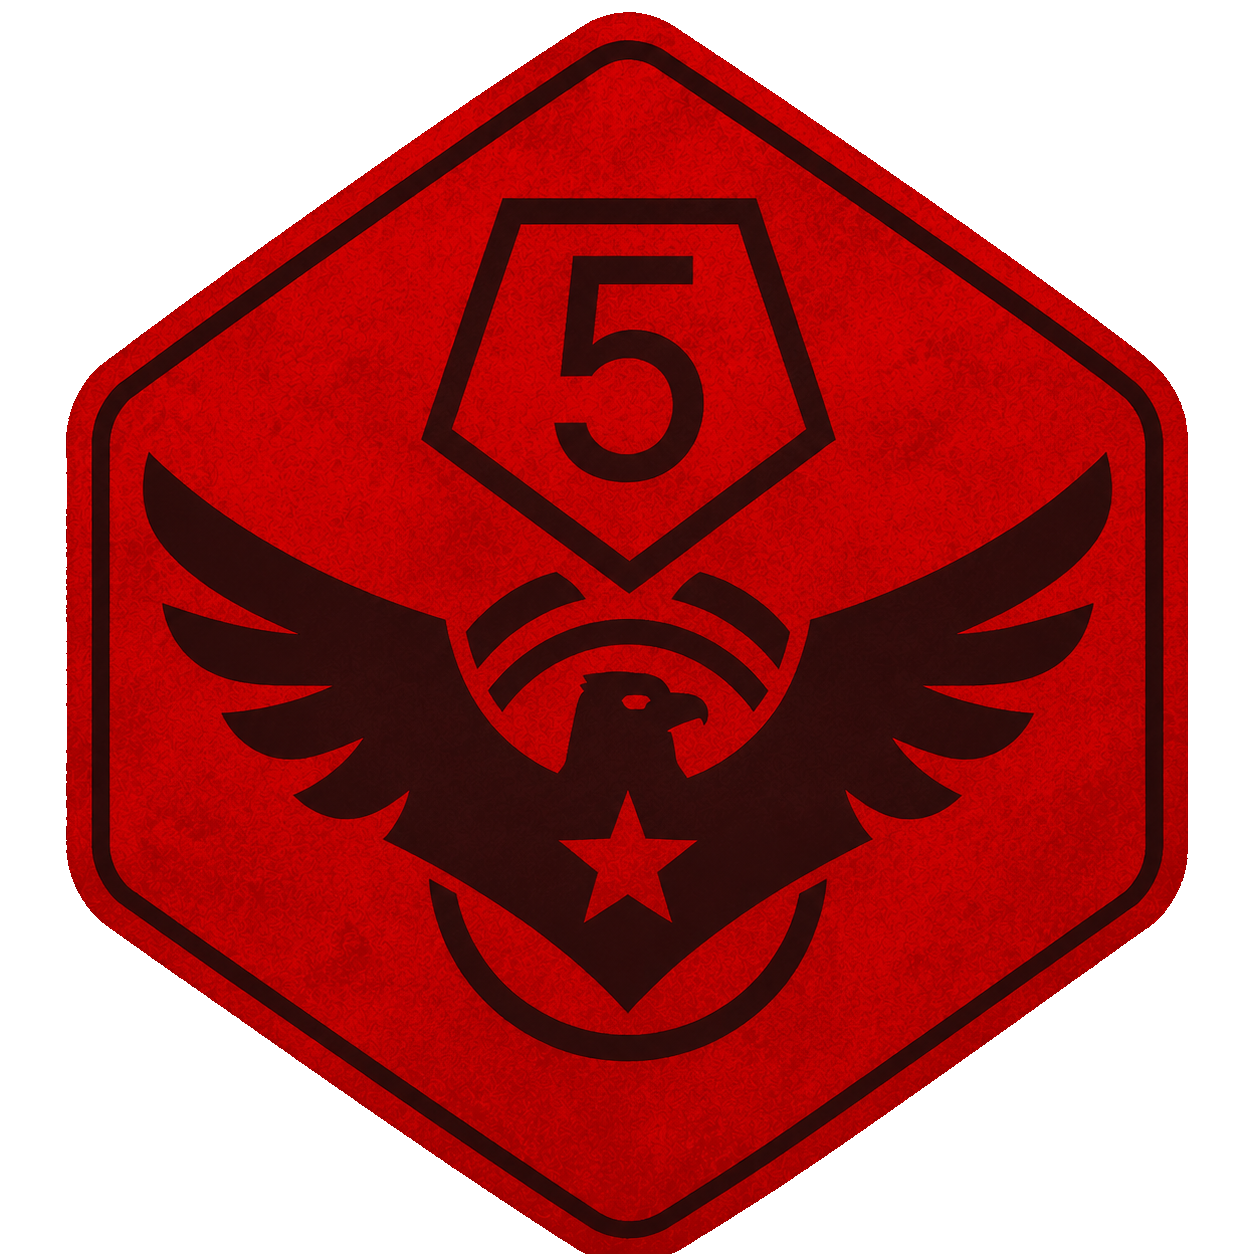
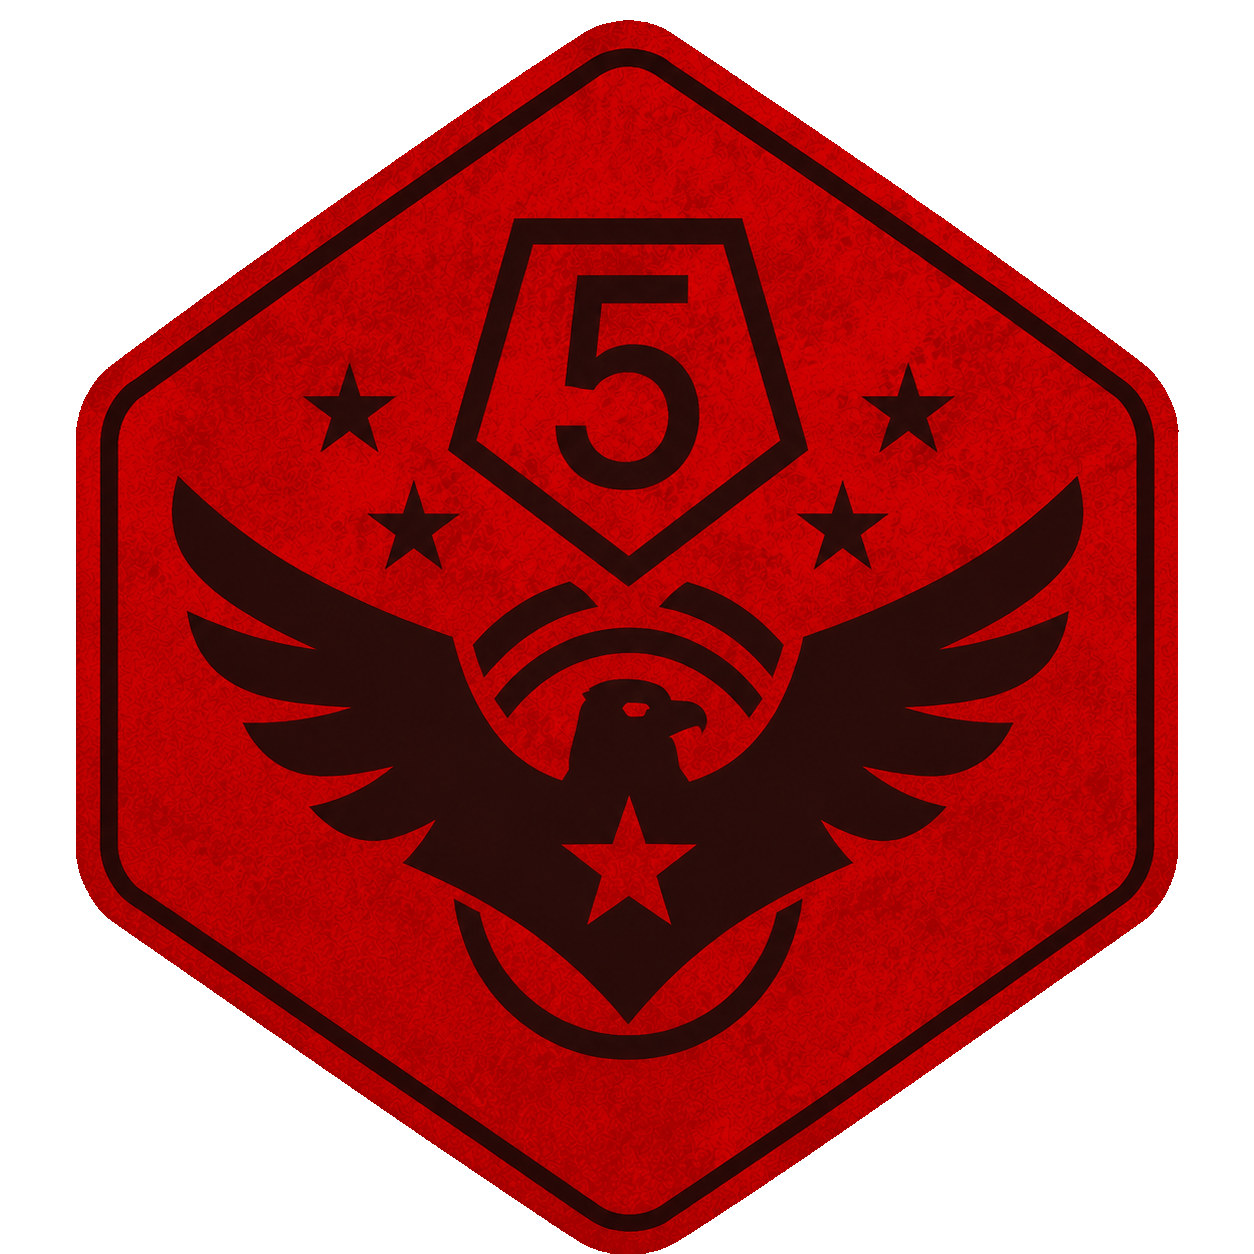
Add new levels

Changed region(s): [[0.0311, 0.0, 0.9641, 1.0], [0.4354, 0.6531, 0.5598, 0.7464], [0.4354, 0.7464, 0.4665, 0.7775]]

diff --git a/script.js b/script.js
@@ -190,6 +190,7 @@ const разделы = {
           section("Входы", [
             "Уровень 2 является одним из немногих уровней Закулисья, на который можно попасть напрямую из реальности.",
             "На уровень можно попасть, проведя достаточно длительное время на Уровне 1.",
+            "Сюда иногда можно попасть через дверь в кабинет Химии на уровне 13.",
             "Также попасть сюда можно через Хаб."
           ]),
           section("Выходы", [
@@ -258,7 +259,8 @@ const разделы = {
             "Открытые двери на Уровне 2 обычно ведут сюда.",
             "Лифты на Уровнях 4 и 5 могут привести обратно на Уровень 3.",
             "Входы в бункеры на Уровне 10 иногда ведут сюда.",
-            "Некоторые здания на Уровне 11, внешне напоминающие Уровень 3, телепортируют странников на этот уровень."
+            "Некоторые здания на Уровне 11, внешне напоминающие Уровень 3, телепортируют странников на этот уровень.",
+            "Сюда иногда можно попасть через дверь в кабинет Химии на уровне 13."
           ]),
           section("Выходы", [
             "Лифты на Уровне 3 могут привести на Уровень 4."
@@ -592,7 +594,7 @@ const разделы = {
       {
         id: "level-9",
         number: "Уровень 9",
-        name: "Пригород",
+        name: "Ночной пригород",
         danger: "hostile",
         grade: "5",
         state: "Небезопасен; нестабилен; много сущностей",
@@ -689,6 +691,111 @@ const разделы = {
             "Дома на уровне могут привести на Уровень 5.",
             "Возможно возвращение на Уровень 9.",
             "Длительное следование по грунтовой дороге может привести на Уровень 11."
+          ])
+        ]
+      },
+      {
+        id: "level-11",
+        number: "Уровень 11",
+        name: "Бесконечный город",
+        danger: "safe",
+        grade: "1",
+        state: "Безопасен; стабилен; мало сущностей",
+        statuses: ["Безопасен", "Стабилен", "Мало сущностей"],
+        summary:
+          "Бесконечный городской ландшафт с жилыми домами, магазинами, офисными зданиями, небоскребами и аномальной геометрией.",
+        tags: ["город", "здания", "улицы"],
+        images: [
+          {
+            src: "assets/Level 11-1.png",
+            alt: "Пустая городская улица Уровня 11",
+            caption: "Городская улица с различными зданиями и тротуарами"
+          },
+          {
+            src: "assets/Level 11-2.png",
+            alt: "Высотные жилые здания Уровня 11",
+            caption: "Жилой район бесконечного городского ландшафта"
+          }
+        ],
+        sections: [
+          section("Описание", [
+            "Уровень 11 представляет собой бесконечный городской ландшафт, состоящий из жилых домов, магазинов, офисных зданий и небоскребов.",
+            "На уровне встречается множество зданий, напоминающих постройки из обычного мира. Они отличаются архитектурой, размерами и внутренним устройством. Некоторые здания полностью пусты, другие содержат мебель, припасы и различные предметы.",
+            "Внутренние помещения часто обладают аномальной геометрией. Нередки лестницы, ведущие в никуда, двери, расположенные на стенах, и другие пространственные аномалии.",
+            "В заброшенных магазинах, кафе и общественных зданиях можно найти полезные ресурсы.",
+            "Гравитация на уровне работает нестандартно. Некоторые здания стоят друг на друге, удерживаются на поверхности воды или частично проходят сквозь соседние сооружения, что невозможно с точки зрения обычной физики."
+          ]),
+          section("Улицы и транспорт", [
+            "Тротуары обычно безопасны, однако иногда могут внезапно заканчиваться тупиками или проходить сквозь здания. Некоторые пешеходные дорожки поднимаются вверх под углом, напоминая длинные рампы.",
+            "В отличие от Уровня 9, дороги здесь всегда сухие и теплые. На них присутствует стандартная дорожная разметка.",
+            "Уличные фонари работают выборочно: часть из них постоянно включена, остальные остаются выключенными.",
+            "На уровне отсутствует смена времени суток - здесь всегда день. Несмотря на это, некоторые другие уровни позволяют наблюдать ночную версию Уровня 11.",
+            "Иногда по улицам самостоятельно движутся автомобили неизвестного происхождения. Со временем они останавливаются. Транспортные средства не функционируют и не могут использоваться по назначению.",
+            "Большинство автомобилей пустует, однако сообщалось о случаях обнаружения внутри Безликих - как одиночных особей, так и групп численностью до 4 сущностей."
+          ]),
+          section("Ресурсы и опасные зоны", [
+            "Миндальная вода встречается часто. Ее можно обнаружить в фонтанах, холодильниках, торговых автоматах и других местах.",
+            "По всему уровню расположены атомные электростанции, находящиеся примерно в 800 км друг от друга. Исследования показали, что они не работают, однако продолжают излучать опасные уровни радиации. Приближаться к ним не рекомендуется.",
+            "На уровне также встречаются копии известных достопримечательностей из различных городов мира. Все они обладают теми же аномальными свойствами, что и остальные сооружения Уровня 11.",
+            "На уровне стабильно работает Wi-Fi. Названия сетей выглядят случайным набором символов и не имеют заметной закономерности."
+          ]),
+          section("Сущности", [
+            "На уровне могут встречаться Безликие, Гончие, Улыбающиеся, Искореженные, Аргоса, Соседский Дозор, Смертомоли и Крадущиеся.",
+            "Несмотря на присутствие данных сущностей, их плотность остается сравнительно низкой для уровня такого масштаба."
+          ]),
+          section("Входы", [
+            "Следуя дорожным указателям на Уровне 9, можно попасть на Уровень 11.",
+            "Длительное движение по дороге на Уровне 10 также может привести сюда."
+          ]),
+          section("Выходы", [
+            "Некоторые здания могут вести на Уровни 0, 1, 2 и 4.",
+            "Здания, внешне напоминающие объекты Уровня 3, часто ведут именно туда.",
+            "Возможно возвращение на Уровень 9.",
+            "Некоторые окна ведут на Уровень 12.",
+            "Вход в здание с табличкой «ОБЩЕСТВЕННЫЙ БАССЕЙН #0037» приводит на Уровень 37.",
+            "Вход в старшую школу из бурого кирпича имени М. Дэвида приводит на Уровень 52."
+          ])
+        ]
+      },
+      {
+        id: "level-12",
+        number: "Уровень 12",
+        name: "Матрица",
+        danger: "unknown",
+        grade: "UNC",
+        state: "Безопасность не подтверждена; нестабилен; наличие сущностей не подтверждено",
+        statuses: ["Безопасность не подтверждена", "Нестабилен", "Наличие сущностей не подтверждено"],
+        summary:
+          "Одна из самых малоизученных областей Закулисья, способная скрывать информацию о самой себе.",
+        tags: ["комната", "помехи", "неподтвержденный"],
+        images: [
+          {
+            src: "assets/Level 12-1.png",
+            alt: "Визуальный шум и тестовый экран, связанный с Уровнем 12",
+            caption: "Типичный результат попытки задокументировать Уровень 12"
+          }
+        ],
+        sections: [
+          section("Описание", [
+            "Уровень 12 является одной из самых малоизученных областей Закулисья. Главной особенностью уровня считается его способность скрывать информацию о самом себе.",
+            "Любые попытки сфотографировать, записать на видео или иным образом задокументировать Уровень 12 заканчиваются неудачей.",
+            "Полученные изображения обычно превращаются либо в полностью белый кадр, либо в набор визуальных шумов и помех, напоминающих неисправный телевизионный сигнал.",
+            "При переносе таких материалов на другие устройства они часто преобразуются в стандартный тестовый экран SMPTE без цветовой информации.",
+            "Сам уровень представляет собой небольшую ярко освещенную комнату белого цвета. Внутри находятся только три объекта: стол, стул и дверь.",
+            "Несмотря на предельную простоту помещения, подробные сведения о нем отсутствуют. Большинство данных об Уровне 12 основано исключительно на рассказах странников.",
+            "Согласно имеющимся отчетам, многие люди успешно входили на уровень и покидали его, однако точный механизм перехода между уровнями остается неизвестным.",
+            "По неизвестной причине странники часто не могут подробно описать произошедшее после возвращения.",
+            "На сегодняшний день не обнаружено ни одной сущности, постоянно обитающей на Уровне 12."
+          ]),
+          section("Сущности", [
+            "Подтвержденных сущностей на уровне не обнаружено."
+          ]),
+          section("Входы", [
+            "Некоторые окна на Уровне 11 могут привести на Уровень 12."
+          ]),
+          section("Выходы", [
+            "Известно, что Уровень 12 может вести на Уровень 1, Уровень 4, Уровень 10, Уровень 13 и Уровень 14.",
+            "Точный способ выбора точки выхода неизвестен."
           ])
         ]
       },
@@ -1011,20 +1118,24 @@ function pluralize(count) {
 }
 
 function classLevel(item) {
+  if (item.grade === "UNC") return "UNC";
   return item.grade === "Q" ? "Q" : Number(item.grade);
 }
 
 function classBadge(item) {
-  if (item.grade === "Q") return "Класс не определён";
-  return `Класс ${classLevel(item)}`;
+  if (item.grade === "UNC") return "Класс выживания: Неподтверждённый";
+  if (item.grade === "Q") return "Класс выживания: Не определён";
+  return `Класс выживания: ${classLevel(item)}`;
 }
 
 function classPill(item) {
-  if (item.grade === "Q") return "Класс выживания не определён";
-  return `Класс выживания ${classLevel(item)}`;
+  if (item.grade === "UNC") return "Класс выживания: Неподтверждённый";
+  if (item.grade === "Q") return "Класс выживания: Не определён";
+  return `Класс выживания: ${classLevel(item)}`;
 }
 
 function difficultyImage(item) {
+  if (item.grade === "UNC") return "assets/diff-UNC.png";
   if (item.grade === "Q") return "assets/diff-Q.png";
   const grade = classLevel(item);
   if (grade >= 0 && grade <= 5) {

diff --git a/index.html b/index.html
@@ -28,7 +28,7 @@
 
       <aside class="signal-panel" aria-label="Сводка архива">
         <div>
-          <span>33</span>
+          <span>35</span>
           <small>статей</small>
         </div>
         <div>
@@ -70,7 +70,7 @@
 
         <div class="archive-meta">
           <p id="categoryTitle">Уровни 0-14</p>
-          <span id="resultCount">13 записей</span>
+          <span id="resultCount">15 записей</span>
         </div>
 
         <div class="grid" id="cards" aria-live="polite"></div>